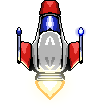
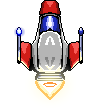
can switch ships with up-down key

Changed region(s): [[0.36, 0.7364, 0.63, 0.8727], [0.12, 0.2455, 0.27, 0.3545], [0.75, 0.2455, 0.87, 0.3545]]

diff --git a/src/not_rocketscience/main.py b/src/not_rocketscience/main.py
@@ -8,6 +8,7 @@ from .background import LayeredScrollingStarBackground
 from .ship import Ship
 from .planets import PlanetGroup, PlanetTexture
 from .hud import FloatText, FuelGaige, PilotDisplay
+import pygame
 
 
 class NotRocketScience(GameBase):
@@ -31,11 +32,17 @@ class NotRocketScience(GameBase):
         )
         self.txt = FloatText(fontsize=12)
         self.fuel_gaige = FuelGaige((10, self.screen_height - 10))
+
+        self.n_pilots = len(config.pilots)
+        self.pilot_index = 0
+        self.pilot_switch_time = pygame.time.get_ticks()
+
         self.ship = Ship(
             0.5 * np.array(self.screen_size),
-            **config.pilots[0]
+            0.5 * np.array(self.screen_size),
+            **config.pilots[self.pilot_index]
         )
-        self.pilot_display = PilotDisplay((self.screen_width - 10, 10), fontsize=20)
+        # self.pilot_display = PilotDisplay((self.screen_width - 10, 10), fontsize=20)
 
         self.n_planets = config.number_of_planets
         self.planets = PlanetGroup(
@@ -75,7 +82,7 @@ class NotRocketScience(GameBase):
         )
         self.ship.draw(self.screen, self.frametime_s, self.speed)
         self.fuel_gaige.draw(self.screen, self.ship.fuel / self.ship.ship_fuel_capacity)
-        self.pilot_display.render(self.screen, self.ship.pilot_avatar, self.ship.pilot_name)
+        # self.pilot_display.render(self.screen, self.ship.pilot_avatar, self.ship.pilot_name)
         self.txt.render(
             self.screen,
             (self.screen_width / 2, 0),
@@ -90,6 +97,29 @@ class NotRocketScience(GameBase):
 
     def process_inputs(self):
         self.ship.controls()
+
+        keys = pygame.key.get_pressed()
+        now = pygame.time.get_ticks()
+
+        if now - self.pilot_switch_time > 1000:
+            if keys[pygame.K_UP]:
+                self.pilot_index += 1
+                switch_ship = True
+                self.pilot_switch_time = now
+            elif keys[pygame.K_DOWN]:
+                self.pilot_index -= 1
+                switch_ship = True
+                self.pilot_switch_time = now
+            else:
+                switch_ship = False
+            
+            if switch_ship:
+                self.ship = Ship(
+                    self.ship._screen_coordinates,
+                    self.ship.world_coordinates,
+                    initial_angle=self.ship._angle,
+                    **config.pilots[self.pilot_index % self.n_pilots]
+                )
 
 
 def cli():

diff --git a/src/not_rocketscience/ship.py b/src/not_rocketscience/ship.py
@@ -15,7 +15,9 @@ class Ship:
     """
     def __init__(
         self,
-        initial_position,
+        screen_coordinates,
+        world_coordinates,
+        initial_angle=0,
         asset_path=None,
         sprite_name_pattern=r"ship_cd_\d\.png",
         pilot_name="Cptn Default",
@@ -50,18 +52,19 @@ class Ship:
         self.ship_fuel_regeneration = ship_fuel_regeneration
 
         self.sprites = [pygame.image.load(filename) for filename in self.sprite_filenames]
-        if self.avatar_filename.exists():
-            self.pilot_avatar = pygame.image.load(self.avatar_filename)
-        else:
-            raise FileNotFoundError(f"Avatar {self.avatar_filename} cannot be found.")
+        # if self.avatar_filename.exists():
+        #     self.pilot_avatar = pygame.image.load(self.avatar_filename)
+        # else:
+        #     raise FileNotFoundError(f"Avatar {self.avatar_filename} cannot be found.")
 
-        self._angle = 0
+        self._angle = initial_angle
         self._thrust = 0
         self._rotation_speed = 0
         self._last_time = pygame.time.get_ticks()
         self._sprite_index = 0
         self._fuel = self.ship_fuel_capacity
-        self._screen_coordinates, self._world_coordinates = initial_position.copy(), initial_position.copy()
+        self._screen_coordinates = screen_coordinates.copy()
+        self._world_coordinates = world_coordinates.copy()
 
     @property
     def angle_rad(self):
